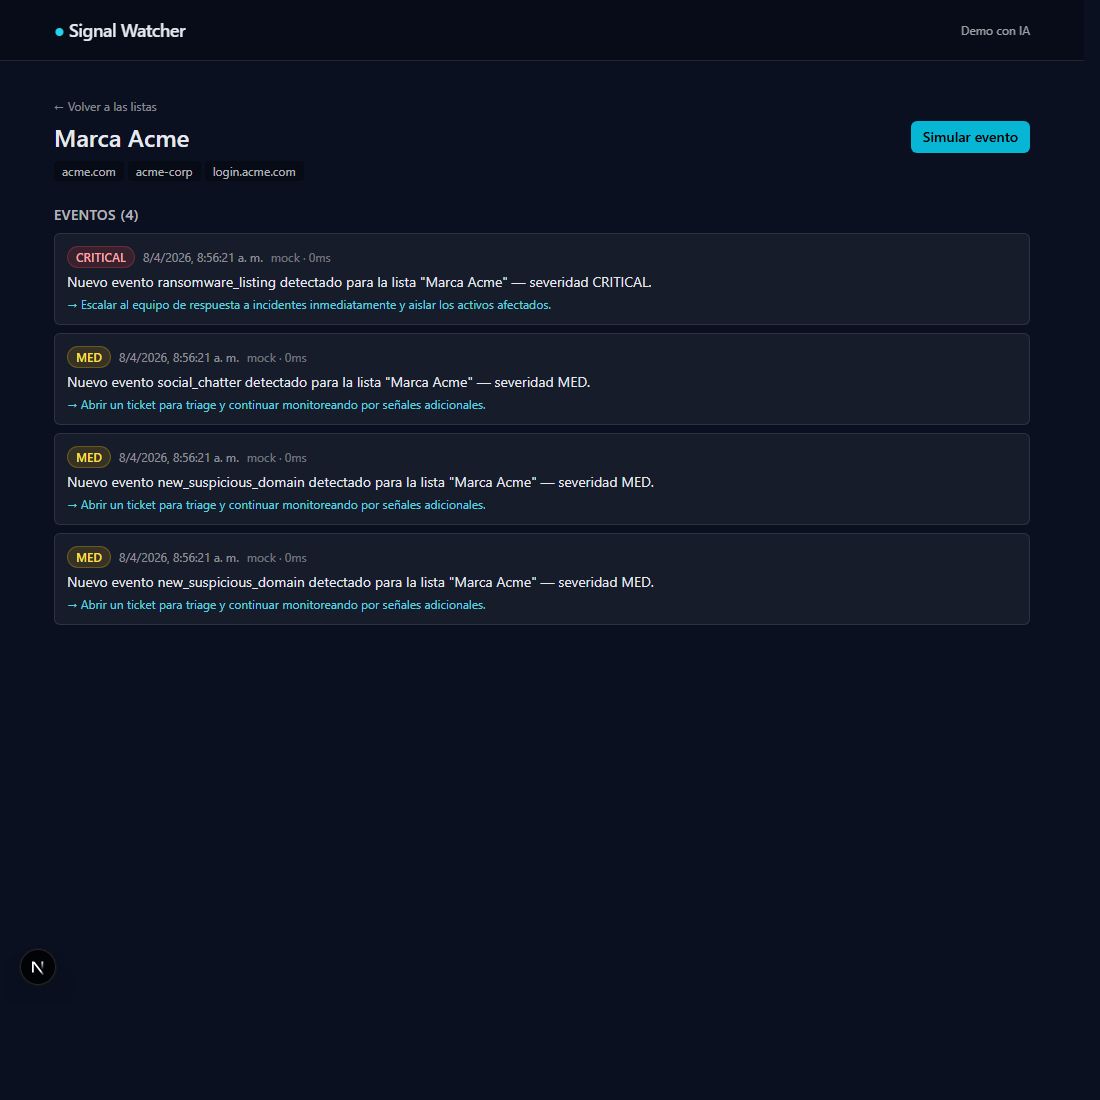
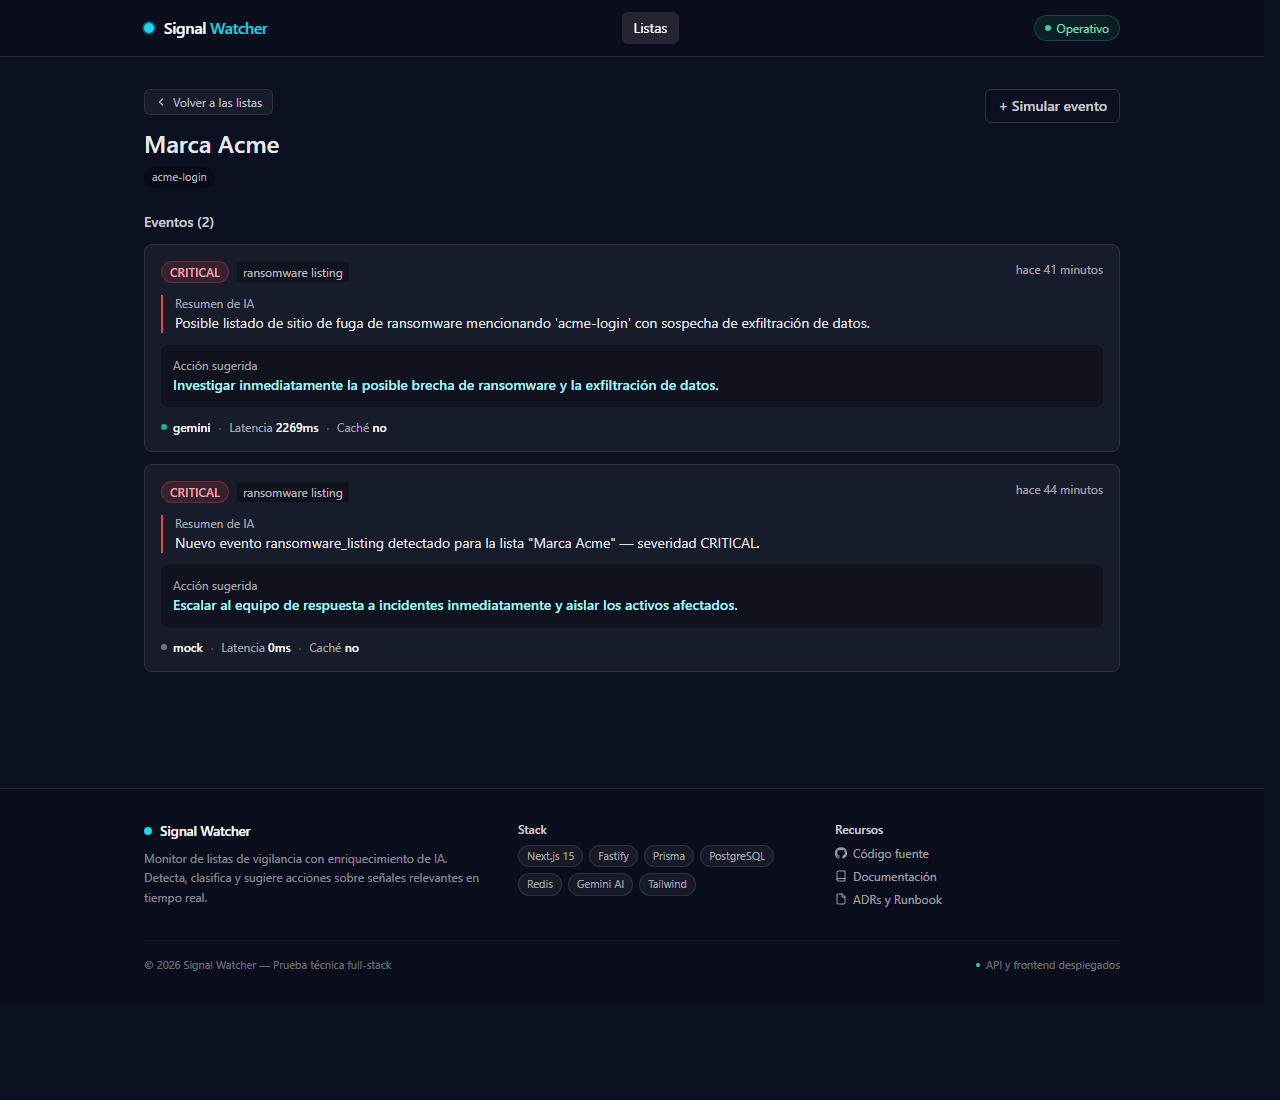
docs: actualizar README, capturas y logs con la UI actual
- Nuevas capturas (01-listado, 02-detalle) reflejando header/footer,
  stats bar, watchlist cards con mini-barra de severidad y event cards
  rediseñadas con dot verde en provider Gemini
- README: reescribir guía de uso con dashboard, dialog de crear watchlist,
  toasts, empty states con CTA y nueva sección "Frontend (Next.js 15)"
  listando los componentes clave
- README: documentar endpoint GET /api/stats y campo severityCounts
- README + RUNBOOK + PROMPT_LOG: actualizar gemini-flash-latest a
  gemini-2.5-flash (modelo real en producción)
- PROMPT_LOG: añadir entradas para despliegue Railway+Vercel, UI guide
  P0/P1, polish guide (6 ajustes) y header/footer/BackLink
- RUNBOOK: traducir mensaje de troubleshooting de degradación de IA

diff --git a/README.md b/README.md
@@ -4,9 +4,17 @@ Monitor de listas de vigilancia con IA. Un analista crea **watchlists** (listas 
 
 Construido como prueba técnica enfocada en arquitectura, observabilidad e integración real (no de juguete) con IA.
 
-| Listado de watchlists | Detalle con eventos enriquecidos |
-|---|---|
-| ![Listado](./docs/screenshots/01-listado-watchlists.png) | ![Detalle](./docs/screenshots/02-detalle-eventos.png) |
+### Dashboard — listado con stats y watchlist cards
+
+![Dashboard con stats bar, watchlist cards, header y footer](./docs/screenshots/01-listado-watchlists.png)
+
+Incluye: header sticky con indicador *Operativo*, barra de stats (eventos totales, críticos, listas activas, proveedor IA), watchlist cards en grid con chips de términos y mini-barra de severidad, y footer con stack y enlaces a documentación.
+
+### Detalle — eventos enriquecidos por IA
+
+![Detalle de watchlist con event cards: resumen IA, acción sugerida y metadata](./docs/screenshots/02-detalle-eventos.png)
+
+Cada event card separa visualmente: **badge de severidad** + tipo de evento + timestamp relativo, **resumen de IA** con borde izquierdo coloreado por severidad, **acción sugerida** en un bloque destacado, y **metadata** (proveedor con dot verde si es Gemini, latencia, caché).
 
 ---
 
@@ -80,7 +88,7 @@ Toda la enriquecimiento queda persistido en Postgres junto con el payload origin
 
 | Provider | Cuándo se usa | Comportamiento |
 |---|---|---|
-| `GeminiProvider` | `AI_PROVIDER=gemini` con `GEMINI_API_KEY` | Llama a `gemini-flash-latest` con structured output |
+| `GeminiProvider` | `AI_PROVIDER=gemini` con `GEMINI_API_KEY` | Llama a `gemini-2.5-flash` con structured output y system prompt en español |
 | `MockProvider` | `AI_PROVIDER=mock` (default en tests/dev) | Clasificador determinista por palabras clave (`ransomware → CRITICAL`, `phishing → HIGH`, …) |
 
 Agregar OpenAI/Anthropic/Azure es **un archivo nuevo** que implemente la interfaz + un `case` en el factory. Detalles en [`docs/ADR-002-ai-adapter.md`](./docs/ADR-002-ai-adapter.md).
@@ -88,6 +96,22 @@ Agregar OpenAI/Anthropic/Azure es **un archivo nuevo** que implemente la interfa
 ### Schemas compartidos
 
 `packages/shared` contiene los schemas Zod (`WatchlistSchema`, `EventSchema`, `AiEnrichmentSchema`, …) que **ambos** lados consumen. Es la única forma en que tipos cruzan la frontera front ↔ back; nunca se exportan tipos de Prisma al frontend.
+
+### Frontend (Next.js 15)
+
+El web es un App Router puro, con **Server Components** por defecto y **Server Actions** para todas las mutaciones. Componentes destacados:
+
+- `components/layout/SiteHeader.tsx` — header sticky con logo, navegación activa e indicador *Operativo*.
+- `components/layout/SiteFooter.tsx` — footer con stack, enlaces a documentación y copyright.
+- `components/dashboard/StatsBar.tsx` — 4 metric cards alimentadas por `GET /api/stats`.
+- `components/watchlists/WatchlistCard.tsx` — tarjeta con términos como chips y mini-barra de severidad computada desde `severityCounts`.
+- `components/watchlists/NewWatchlistButton.tsx` + `components/ui/Dialog.tsx` — botón que abre un modal (backdrop, ESC, scroll lock) con `WatchlistForm` dentro.
+- `components/events/EventCard.tsx` — tarjeta de evento con header, sección IA con borde por severidad, acción sugerida y metadata con dot verde/gris por proveedor.
+- `components/ui/EmptyState.tsx` — estado vacío reutilizable con icono SVG, título, descripción y CTA opcional.
+- `components/ui/RelativeTime.tsx` — timestamps relativos con `date-fns/es` y tooltip con la fecha absoluta.
+- `components/SimulateEventButton.tsx` — dispara la Server Action y muestra un toast con la severidad devuelta.
+
+**Feedback inmediato**: `sonner` maneja los toasts (creación, simulación, errores) con tema dark y posición bottom-right.
 
 ### Observabilidad de primer día
 
@@ -105,7 +129,7 @@ Agregar OpenAI/Anthropic/Azure es **un archivo nuevo** que implemente la interfa
 | Persistencia | **PostgreSQL 16** + Prisma ORM |
 | Caché | **Redis 7** (con fallback en memoria si `REDIS_URL` no está definida) |
 | IA | **Google Gemini** (`gemini-flash-latest`) vía `@google/genai`, con `MockProvider` determinista para tests/dev |
-| Frontend | **Next.js 15** App Router · Server Actions · Tailwind CSS |
+| Frontend | **Next.js 15** App Router · Server Actions · Tailwind CSS · Sonner (toasts) · date-fns |
 | Tests | Vitest |
 | CI | GitHub Actions (typecheck · test · build, con servicios Postgres + Redis) |
 | Despliegue | Vercel (frontend) · Railway / Render (backend Docker) |
@@ -187,27 +211,42 @@ URLs:
 
 ## Guía de uso
 
-### 1. Crear una watchlist
+### 1. Dashboard
 
-Abre http://localhost:3000. Verás un formulario con dos campos:
+Abre http://localhost:3000/watchlists. Arriba de todo ves una **barra de stats** con 4 métricas leídas de `GET /api/stats`:
+
+- **Eventos totales** — conteo global de eventos en todas las listas.
+- **Críticos** — conteo de `severity=CRITICAL` (en rojo si hay alguno).
+- **Listas activas** — número de watchlists.
+- **Proveedor IA** — `Gemini` o `Mock` según el backend (en verde).
+
+### 2. Crear una watchlist
+
+Haz clic en el botón **"+ Nueva lista"** del header de la sección. Se abre un **dialog modal** con dos campos:
 
 - **Nombre**: identificador legible (ej. `Marca ACME`).
-- **Términos**: lista separada por comas (ej. `acme.com, acme-corp, ransomware-acme`).
+- **Términos**: uno por línea o separados por comas (ej. `acme.com, acme-corp, ransomware-acme`).
 
-Al enviar, una Server Action de Next.js llama al backend y crea la watchlist en Postgres. La página se revalida automáticamente y la verás listada.
+Al enviar, una Server Action llama al backend, crea la watchlist en Postgres y muestra un **toast de confirmación**. La página se revalida y el dialog se cierra automáticamente al tener éxito. Si no hay ninguna lista aún, en lugar del listado verás un **empty state** con un CTA para crear la primera.
 
-### 2. Ver el detalle
+### 3. Ver el detalle de una lista
 
-Haz clic en una watchlist. La página de detalle muestra:
-- Sus términos.
-- Los últimos 50 eventos asociados, con su severidad coloreada (`LOW` gris, `MED` amarillo, `HIGH` naranja, `CRITICAL` rojo).
-- Para cada evento: el resumen del LLM, la acción sugerida, el proveedor (`gemini` / `mock`) y la latencia.
+Haz clic en una **watchlist card**. Las cards muestran el nombre, los términos como chips, el conteo de eventos y una mini-barra de severidad con un cuadradito por cada severidad presente (rojo `CRITICAL`, naranja `HIGH`, amarillo `MED`, verde `LOW`). Si la lista tiene críticos, un badge `N críticos` lo avisa en el header de la card.
 
-### 3. Simular un evento
+La página de detalle muestra los últimos 50 eventos como **event cards** con cuatro zonas visualmente separadas:
 
-Botón **"Simular evento"** en la página de detalle. El backend genera un payload sintético, lo manda a la IA y persiste el resultado. Si el evento contiene la palabra `ransomware` o `phishing`, el `MockProvider` lo clasificará como `CRITICAL` o `HIGH` respectivamente — útil para demos sin Gemini.
+- **Header** — badge de severidad coloreado, tipo de evento (`malware_mention`, `social_chatter`, …) y timestamp relativo (`hace 2 min`, con la fecha absoluta en el tooltip).
+- **Resumen de IA** — el texto del LLM con un borde izquierdo coloreado por severidad.
+- **Acción sugerida** — en un bloque destacado con fondo sutil.
+- **Metadata** — proveedor (con dot verde si es Gemini, gris si es Mock), latencia en ms y estado de caché, separados por `·`.
 
-### 4. Ver métricas
+### 4. Simular un evento
+
+Botón **"+ Simular evento"** (outline) arriba a la derecha. El backend genera un payload sintético, lo manda a la IA y persiste el resultado. Al recibir la respuesta, aparece un **toast** con la severidad y un preview del resumen. Si el evento contiene la palabra `ransomware` o `phishing`, el `MockProvider` lo clasificará como `CRITICAL` o `HIGH` respectivamente — útil para demos sin Gemini.
+
+Si la lista todavía no tiene eventos, verás un **empty state** con un CTA "+ Simular evento" directamente en el panel vacío.
+
+### 5. Ver métricas
 
 ```bash
 curl http://localhost:3001/metrics
@@ -219,7 +258,7 @@ Busca estos contadores:
 - `ai_cache_hits_total` — eventos servidos desde caché
 - `ai_call_duration_seconds_bucket` — histograma de latencia
 
-### 5. Cambiar de proveedor en caliente
+### 6. Cambiar de proveedor en caliente
 
 Edita `apps/api/.env`:
 ```env
@@ -227,7 +266,7 @@ AI_PROVIDER=mock     # o gemini
 ```
 Reinicia el api (`tsx watch` se recargará solo si cambias código, pero las env vars requieren reinicio del proceso).
 
-### 6. Trazar una request de punta a punta
+### 7. Trazar una request de punta a punta
 
 Cada respuesta del backend incluye `x-correlation-id`. Pasa el tuyo para forzar un valor:
 
@@ -249,7 +288,7 @@ Todas las variables se validan con Zod en el arranque (`apps/api/src/core/config
 | `REDIS_URL` | ⚠️ | Opcional. Si no está, usa caché en memoria. Local: `redis://localhost:6380` |
 | `AI_PROVIDER` | ✅ | `gemini` o `mock` |
 | `GEMINI_API_KEY` | si `AI_PROVIDER=gemini` | Obtén una en https://aistudio.google.com/apikey |
-| `GEMINI_MODEL` | – | Por defecto `gemini-flash-latest` |
+| `GEMINI_MODEL` | – | Por defecto `gemini-2.5-flash` |
 | `AI_CACHE_TTL_SECONDS` | – | Por defecto `600` |
 | `CORS_ORIGINS` | – | Lista separada por comas |
 | `LOG_LEVEL` | – | `fatal` / `error` / `warn` / `info` / `debug` / `trace` |
@@ -262,8 +301,9 @@ Todas las variables se validan con Zod en el arranque (`apps/api/src/core/config
 | Método | Ruta | Descripción |
 |---|---|---|
 | `POST` | `/api/watchlists` | Crear `{ name, terms[] }` |
-| `GET` | `/api/watchlists` | Listar todas |
+| `GET` | `/api/watchlists` | Listar todas (incluye `severityCounts` por lista) |
 | `GET` | `/api/watchlists/:id` | Detalle + últimos 50 eventos |
+| `GET` | `/api/stats` | Agregados globales para el dashboard (`totalEvents`, `criticalCount`, `watchlistCount`, `aiProvider`, …) |
 | `DELETE` | `/api/watchlists/:id` | Eliminar |
 | `POST` | `/api/watchlists/:id/events/simulate` | Generar evento sintético → enriquecer con IA → persistir |
 | `GET` | `/api/events?watchlistId=` | Listar eventos de una watchlist |

diff --git a/PROMPT_LOG.md b/PROMPT_LOG.md
@@ -5,7 +5,7 @@ Registro de cómo se usó IA durante la construcción de Signal Watcher. Este es
 | Fecha | Objetivo | Resumen del prompt | Resultado | Decisión |
 |---|---|---|---|---|
 | 2026-04-08 | Entender requisitos | Pedí al asistente leer el PDF de la prueba técnica y producir un plan paso a paso | Plan generado cubriendo stack, módulos, observabilidad, despliegue | Aprobado como `~/.claude/plans/polymorphic-kindling-conway.md` |
-| 2026-04-08 | Elegir proveedor de IA | Discusión OpenAI vs Google AI Studio (Gemini) | Gemini elegido por free-tier y soporte de structured output JSON | `AI_PROVIDER=gemini`, `gemini-flash-latest` |
+| 2026-04-08 | Elegir proveedor de IA | Discusión OpenAI vs Google AI Studio (Gemini) | Gemini elegido por free-tier y soporte de structured output JSON | `AI_PROVIDER=gemini`, `gemini-2.5-flash` |
 | 2026-04-08 | Scaffolding del monorepo | Generación de `package.json`, `pnpm-workspace.yaml`, configs base de TS, prettier, gitignore, docker-compose | Archivos escritos en `C:\Users\willi\Prueba` | — |
 | 2026-04-08 | Esqueleto del backend | Generación de la app Fastify con Pino, config validada con Zod, plugin de correlation-id, métricas Prometheus, error handler, ruta health | Código en `apps/api/src/{app,server,core,plugins,modules/health}` | — |
 | 2026-04-08 | Adapter de IA | Diseño de la interfaz `AIProvider`, `MockProvider` (clasificador determinista por keywords), `GeminiProvider` con `@google/genai` y `responseSchema`, más `AiService` con caché Redis + retry + fallback | Código en `apps/api/src/modules/ai/*` | Documentado en ADR-002 |
@@ -17,10 +17,14 @@ Registro de cómo se usó IA durante la construcción de Signal Watcher. Este es
 | 2026-04-08 | Fix CI shared package | El `api` (NodeNext) requería extensiones `.js` pero el webpack de Next no las resolvía. Solución: compilar `packages/shared` a `dist/` con `tsc` y apuntar `main`/`types` a `dist/` | `packages/shared/{package.json,tsconfig.json}` + paso "Build shared package" en CI | — |
 | 2026-04-08 | Fix puertos locales | Conflictos con servicios fantasma de WSL en 5432/6379. Remapeo a 5433/6380 + carga explícita de `.env` con `--env-file` para tsx | `docker-compose.yml`, `apps/api/package.json`, `.env.example` | — |
 | 2026-04-08 | Documentación en español | Reescritura completa de README, ADRs, RUNBOOK y este log al español, con guía de uso end-to-end | Este commit | — |
+| 2026-04-08 | Despliegue en la nube | Iteración sobre Dockerfile (pnpm deploy, binary target `linux-musl-openssl-3.0.x`, migraciones al arrancar, openssl en alpine) + Railway API + Vercel web | Backend en `signal-watcherapi-production.up.railway.app`, frontend en Vercel | — |
+| 2026-04-09 | UI guide P0 + P1 | Aplicación de mejoras del primer UI guide: watchlist cards en grid con chips y mini-barra de severidad, event cards con secciones (IA summary, acción, metadata), StatsBar con `GET /api/stats`, EmptyState, timestamps relativos con date-fns, toasts con sonner, tag de tipo de evento | `components/{dashboard,events,watchlists,ui}/*.tsx` + endpoint `/api/stats` | — |
+| 2026-04-09 | Polish guide | 6 ajustes visuales: labels a sentence case, subir contraste de metadata con middle dot, botón simular en outline, EmptyState con CTA, dot verde/gris para provider, formulario como Dialog modal | `components/ui/Dialog.tsx`, `components/watchlists/NewWatchlistButton.tsx`, refactor de WatchlistForm con props `bare`/`onSuccess` | — |
+| 2026-04-09 | Header, footer y BackLink | SiteHeader sticky con logo animado + nav + indicador Operativo, SiteFooter con stack chips y links, componente BackLink con chip en vez de texto plano | `components/layout/{SiteHeader,SiteFooter}.tsx`, `components/ui/BackLink.tsx` | — |
 
 ## Uso de IA en runtime
 
-Cada simulación de evento dispara una llamada al LLM contra `gemini-flash-latest` (o el mock determinista). Inputs y outputs quedan guardados en la tabla `Event` para auditoría:
+Cada simulación de evento dispara una llamada al LLM contra `gemini-2.5-flash` (o el mock determinista). Inputs y outputs quedan guardados en la tabla `Event` para auditoría:
 - `rawPayload` — el evento simulado que se le pasó al modelo
 - `summary`, `severity`, `suggestedAction` — la salida del modelo (validada contra `AiEnrichmentSchema`)
 - `aiProvider`, `aiLatencyMs` — proveniencia y rendimiento

diff --git a/docs/RUNBOOK.md b/docs/RUNBOOK.md
@@ -78,7 +78,7 @@ curl -H 'x-correlation-id: debug-123' http://localhost:3001/api/watchlists
 | El API muere al arranque con "Invalid environment configuration" | Variable faltante o mal escrita | Compará `.env` contra `.env.example` |
 | `/health` devuelve `degraded` con `database:false` | Postgres inalcanzable | `docker compose ps`, verificá `DATABASE_URL` y el puerto 5433 |
 | `/health` devuelve `degraded` con `cache:false` | Redis inalcanzable | `docker exec signal-watcher-redis redis-cli ping`, verificá `REDIS_URL` y el puerto 6380 |
-| Todos los eventos vuelven con severidad `LOW` y "AI enrichment unavailable" | Gemini fallando tras reintentos | Mirá `ai_calls_total{outcome="failure"}`, verificá API key y cuota |
+| Todos los eventos vuelven con severidad `LOW` y "Enriquecimiento de IA no disponible" | Gemini fallando tras reintentos | Mirá `ai_calls_total{outcome="failure"}`, verificá API key y cuota |
 | El frontend muestra "Failed to fetch" | `API_BASE_URL` mal o CORS mal configurado | Actualizá las env vars, asegurate de que `CORS_ORIGINS` incluya el host del frontend |
 | Rate limited (429) | Más de 100 req/min desde una IP | Ajustá la configuración de `@fastify/rate-limit` en `apps/api/src/app.ts` |
 | `prisma migrate` falla con "P1001 can't reach database" | Postgres no levantado o conflicto de puerto | `docker compose up -d`, comprobá que `DATABASE_URL` use puerto 5433 |